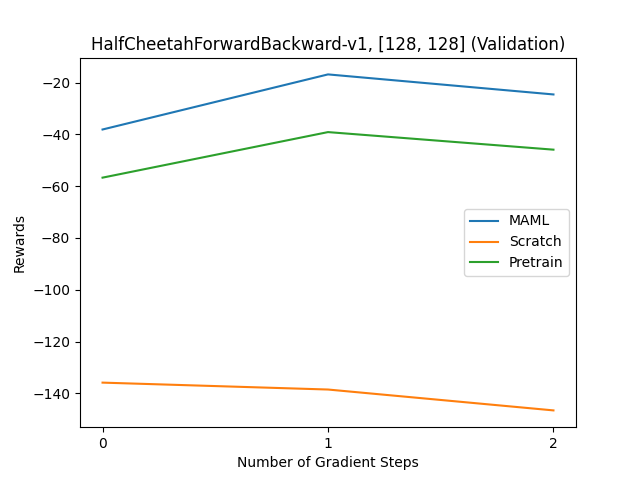
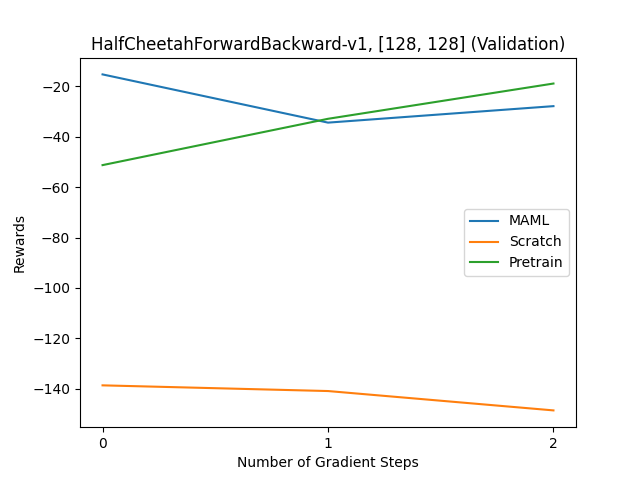
added graphs

diff --git a/main.py b/main.py
@@ -66,15 +66,44 @@ def plotGraphs(env, hidden_dims, grad_steps=3, show=False):
     plt.figure()
     graph_ticks = min(len(maml_train), grad_steps)
     x_axis = range(graph_ticks)
-    plt.plot(x_axis, maml_train[:graph_ticks], label="MAML")
-    plt.plot(x_axis, scratch_train[:graph_ticks], label="Scratch")
-    plt.plot(x_axis, pretrain_train[:graph_ticks], label="Pretrain")
+    plt.plot(x_axis, maml_val[:graph_ticks], label="MAML")
+    plt.plot(x_axis, scratch_val[:graph_ticks], label="Scratch")
+    plt.plot(x_axis, pretrain_val[:graph_ticks], label="Pretrain")
     plt.xticks(x_axis)
     plt.legend(loc="best")
     plt.xlabel("Number of Gradient Steps")
     plt.ylabel("Rewards")
     plt.title(env + ", " +  str(hidden_dims) + ' (Validation)')
     plt.savefig("./graphs/" + env + "_" +  "_".join([str(n) for n in hidden_dims]) + ".png")
+    if show:
+        plt.show()
+
+def plotGraphsHidden(env, grad_steps=3, show=False):
+    data_path = './performance_data/' + env + '/' 
+
+    maml_train_1 = np.load(data_path +  "128/pg_train_maml_train_rewards.npy")
+    maml_val_1 = np.load(data_path + "128/pg_train_maml_val_rewards.npy")
+
+    maml_train_2 = np.load(data_path +  "128_128/pg_train_maml_train_rewards.npy")
+    maml_val_2 = np.load(data_path + "128_128/pg_train_maml_val_rewards.npy")
+
+    maml_train_3 = np.load(data_path +  "128_128_128/pg_train_maml_train_rewards.npy")
+    maml_val_3 = np.load(data_path + "128_128_128/pg_train_maml_val_rewards.npy")
+
+    
+
+    plt.figure()
+    graph_ticks = min(len(maml_train_1), grad_steps)
+    x_axis = range(graph_ticks)
+    plt.plot(x_axis, maml_val_1[:graph_ticks], label="1 Hidden")
+    plt.plot(x_axis, maml_val_2[:graph_ticks], label="2 Hidden")
+    plt.plot(x_axis, maml_val_3[:graph_ticks], label="3 Hidden")
+    plt.xticks(x_axis)
+    plt.legend(loc="best")
+    plt.xlabel("Number of Gradient Steps")
+    plt.ylabel("Rewards")
+    plt.title(env + ' (Validation)')
+    plt.savefig("./graphs/" + env + "_" +  "hidden.png")
     if show:
         plt.show()
 
